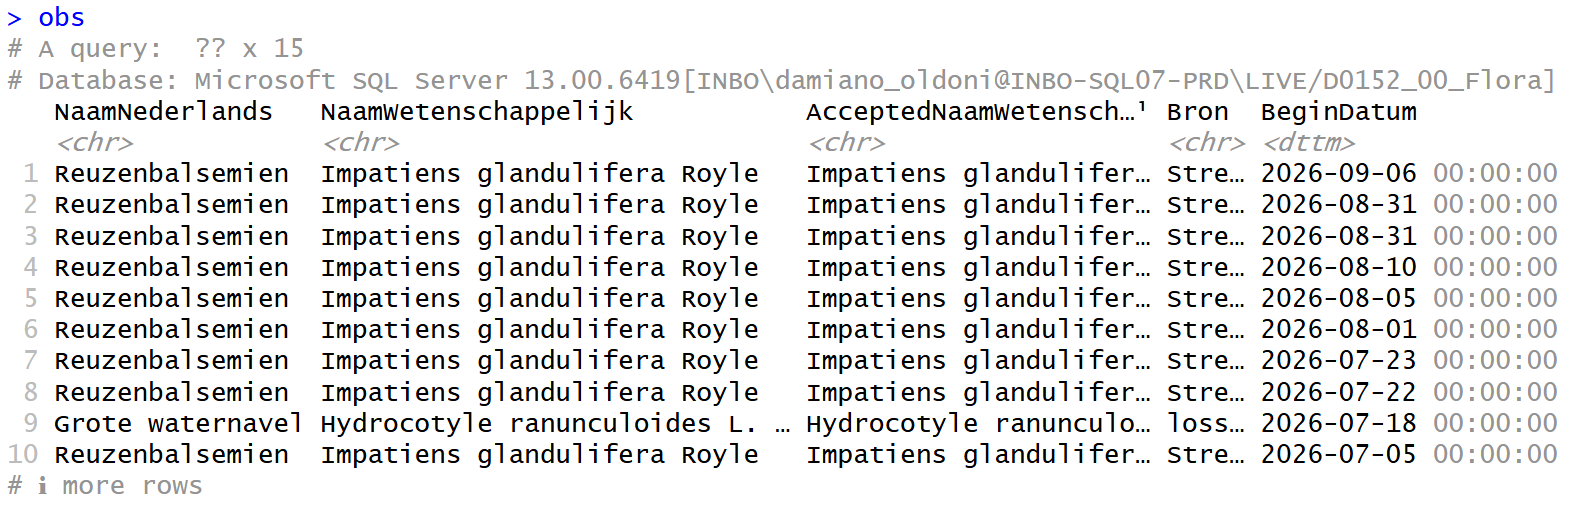
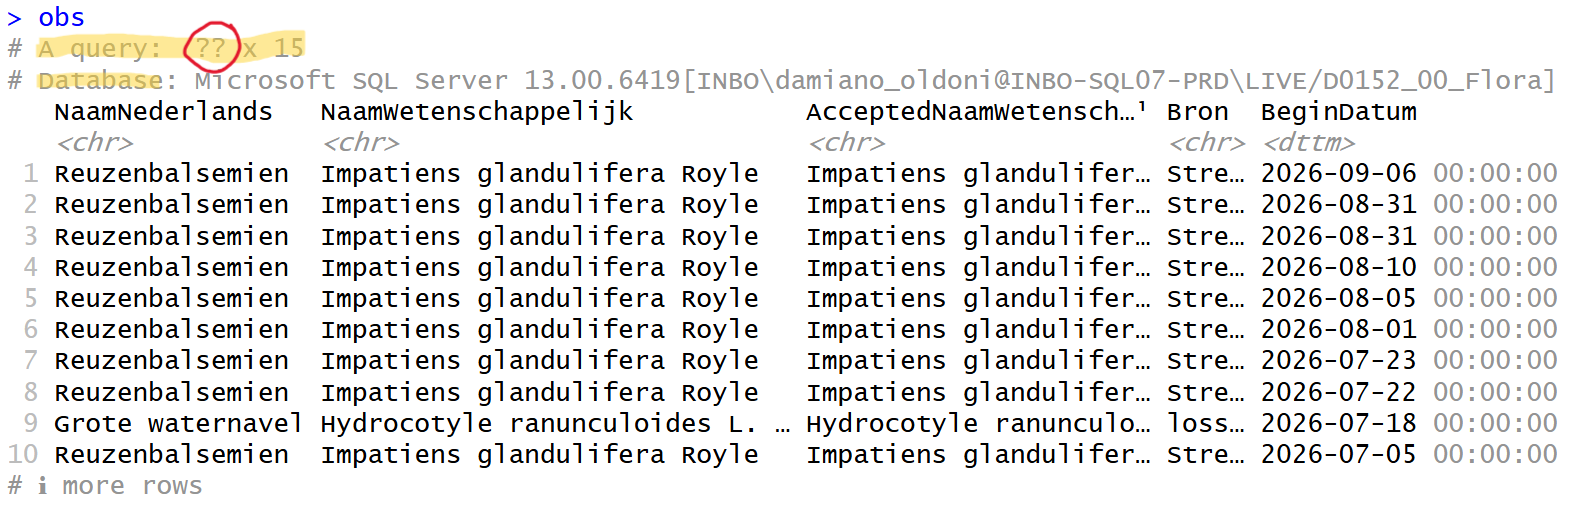
Finalize slides 20260929

Changed region(s): [[0.0, 0.0297, 0.2185, 0.1782]]

diff --git a/docs/sessions/20260929_inbo_databases.html b/docs/sessions/20260929_inbo_databases.html
@@ -60,7 +60,7 @@ class: left, top
 
 ## Introduction
 
-We will explore the functionalities provided by the "made in INBO" package [inbodb](https://inbo.github.io/inbodb/index.html) and then we will play with SQL and tidyverse.
+We will explore the built-in functionalities provided by the "made in INBO" package [inbodb](https://inbo.github.io/inbodb/index.html) and then we will play with SQL and tidyverse.
 
 
 .center[![:scale 80%]({{ site.baseurl}}/assets/images/20260929/20260929_inbodb.png)]
@@ -71,7 +71,7 @@ class: left, top
 ## `inbodb` package
 
 1. Connect to any INBO database
-2. Run specific queries for two INBO databases:
+2. Run specific queries for four INBO databases:
   - [Florabank](https://www.vlaanderen.be/inbo/datasets/florabank/): see [functions](https://inbo.github.io/inbodb/reference/index.html#functions-to-query-florabank)
   - [INBOVEG](https://www.vlaanderen.be/inbo/datasets/inboveg/): see article ["How to retrieve data from the INBOVEG database"](https://inbo.github.io/inbodb/articles/get_data_inboveg.html) and [functions](https://inbo.github.io/inbodb/reference/index.html#functions-to-query-inboveg)
   - [meetnetten.be](https://www.vlaanderen.be/inbo/datasets/meetnettenbe/): see article [How to retrieve data from the Meetnetten database](https://inbo.github.io/inbodb/articles/get_data_meetnetten.html) and [functions](https://inbo.github.io/inbodb/reference/index.html#functions-to-query-the-meetnetten-database)
@@ -86,12 +86,14 @@ class: left, Topic
 
 ## inbodb vs DBI
 
-In the last coding club (Aug 27) we spoke about "SQL in R" and we used the [DBI](https://dbi.r-dbi.org/) package to connect to a database and run SQL queries. The `inbodb` package is built on top of DBI and provides a more user-friendly interface to access INBO databases. So, what you could have learned in the last coding club, is still useful. But, no worries if you missed it, we will provide you some material to get started where needed.
+In the [last coding club](https://coding-club.inbo.be/sessions/20260827_sql_in_r.html#1) (Aug 27) we spoke about "SQL in R" and we used the [DBI](https://dbi.r-dbi.org/) package to connect to a database and run SQL queries. The `inbodb` package is built on top of DBI and provides a more user-friendly interface to access INBO databases. So, what you could have learned in the last coding club, is still useful. But, no worries if you missed it, we will provide you some material to get started where needed.
+
+.center[![:scale 80%]({{ site.baseurl}}/assets/images/20260929/20260929_dbi.png)]
 
 ---
 class: left, top
 
-No cheatsheets today, but we have several material to start with:
+No cheatsheets today, but we have several sources to start with:
 - a well-written [INBO tutorial](https://inbo.github.io/tutorials/tutorials/r_database_access/) is available about access to INBO databases
 - the [inbodb package website](https://inbo.github.io/inbodb/index.html), with its articles and function documentation, does the rest
 
@@ -136,16 +138,16 @@ No data files to download today: we will get the data from the databases :-)
 R scripts:
 - [20260929_challenges.R](https://github.com/inbo/coding-club/blob/master/src/20260929/20260929_challenges.R): R script to start from
 
-Download it automatically via `inborutils::setup_codingclub_session()` or manually from the link provided nad place it in `src/20260929`.
+Download it automatically via `inborutils::setup_codingclub_session()` or manually and place it in `src/20260929`.
 
 ---
 class: left, top
 
 ## Challenge 0
 
-1. People following remotely not connectected to the VO network: log in to the INBO VPN. Instructions available on the specific [IT INBO tutorial](https://ict-intranet.inbo.be/tutorials/vpn/index.html).
+1. People out of the VO network: log in to the INBO VPN. Instructions available on the specific [IT INBO tutorial](https://ict-intranet.inbo.be/tutorials/vpn/index.html).
 2. If not done, install `inbodb` via `pak::pak("inbo/inbodb")` or `remotes::install_github("inbo/inbodb")`.
-3. Load `inbodb` by running `library(inbodb)`. Load also `dplyr`, `DBI` and `glue` packages with `library()` as well. Code provided in `20260929_challenges.R` script.
+3. Load `inbodb` by running `library(inbodb)`. Load also `dplyr`, `DBI` and `glue` packages with `library()` as well. Code already provided in `20260929_challenges.R` script.
 4. Open connections to some databases to test (be patient, it could take a while):
 ```
 inboveg <- connect_inbo_dbase("D0010_00_Cydonia")
@@ -153,7 +155,7 @@ florabank <- connect_inbo_dbase("D0152_00_Flora")
 taxonlijsten <- connect_inbo_dbase("D0156_00_Taxonlijsten")
 vis <- connect_inbo_dbase("W0001_10_Vis")
 ```
-5. If it worked, you are ready to start the challenges.
+5. If it worked, you are ready to fly into the challenges 🚀
 
 ---
 background-image: url({{ site.baseurl}}/assets/images/background_challenge_1.png)
@@ -163,11 +165,11 @@ class: left, top
 
 1. Find the R connection pane of RStudio and find all tables under `dbo`* of Florabank database.
 
-2. Open a view of table `Taxon` of `florabank` (`D0152_00_Flora`), table `ivRecording` of INBOVEG (`D0010_00_Cydonia`) and table `Taxonlijst` of taxonlijsten (`D0156_00_Taxonlijsten`). Tips: check [RStudio connection pane documentation](https://docs.posit.co/ide/user/ide/guide/data/data-connections.html#connections-pane); tables are under the (default) `dbo` _schema_.
+2. Open a view of table `Taxon` of `florabank` (`D0152_00_Flora`), table `ivRecording` of INBOVEG (`D0010_00_Cydonia`) and table `TaxonlijstItem` of taxonlijsten (`D0156_00_Taxonlijsten`). Tips: check [RStudio connection pane documentation](https://docs.posit.co/ide/user/ide/guide/data/data-connections.html#connections-pane); tables are under the (default) `dbo` _schema_.
 
 3. Still using the RStudio connection pane, find the type of the columns of (one of the) tables in 1, e.g. *char*acter, *int*eger.
 
-4. What type does `bit` stand for? Tip: check e.g. the values contained in column `??` of table `??` opened in 1
+4. What type does `bit` stand for? Tip: check e.g. the values contained in columns `Addendum` and `Inactief` of table `TaxonlijstItem` of taxonlijsten database opened in 2.
 
 5. How to get the names of the fields of the tables in 2 directly in R? Tip: use `dBListFields()` function from the DBI package. Check examples in the [DBI homepage](https://dbi.r-dbi.org/#example).
 
@@ -184,14 +186,17 @@ The DBI function `dbListFields()` worked well. So, why not trying the DBI functi
 dbListTables(florabank)
 ```
 
-789 tables??? And all that strange names? Well, that's because the `florabank` database is a SQL Server database and the DBI function `dbListTables()` is not able to filter on the default schema `dbo`. So, you get all tables in all schemas and much, much more.
+
+What?!? 789 tables, and all that strange names?!? 😐
+
+Well, that's because the `florabank` database is a SQL Server database and the DBI function `dbListTables()` is not able to filter on the default schema `dbo`. So, you get all tables in all schemas and much, much more.
 
 ---
 class: left, top
 
 # Intermezzo 1 - database schemas
 
-But wait a minute: did I say `schema`?!? what's a *schema*? And why do we have multiple schemas in a database?
+But wait a minute: what is a **schema**? And why do we have multiple schemas in a database?
 
 A schema is a way to **logically group** database objects like tables within a database. It helps organize and manage the database structure, especially in larger databases with many objects. In SQL Server, the **default** schema is **`dbo`**, but other schemas can be created for different purposes or users (check e.g. the INBOVEG database `D0010_00_Cydonia`). And there are also **system schemas**, like **`sys`**, which contain system tables that are used by SQL Server for internal management and operations.
 
@@ -230,7 +235,7 @@ What else can you find in a schema? Well, besides tables, there are also **views
 It looks and acts like a table (you can query it, filter it, join it), but it doesn't store any data of its own. It's just a stored instruction: _"go fetch this specific slice/combination of the real tables, and show it to me as if it were one table."_
 
 How to recognize them?
-- In RStudio, you cannot open a view of a "view" 😄 No "table" symbol 𝄜 next to its name in connection pane
+- In RStudio, you cannot open a view of a "view" 😄 There is no "table" symbol 𝄜 next to its name in the connection pane
 - Their names typically start with `vw`. Example: the `inbo` schema of INBOVEG database `D0010_00_Cydonia` has no tables, only views. Try it yourself using the connection pane.
 
 .center[![:scale 30%]({{ site.baseurl}}/assets/images/20260929/20260929_views.png)]
@@ -247,11 +252,11 @@ Use inbodb functions to:
 
 2. Get recordings collected during survey `ABS-LIM2011` in INBOVEG database.
 
-3. Get the most recent taxon lists with important species at provincial level. Tip: search for taxon lists containing the words `"provinciaal belangrijke soorten"`. See [taxon lists](https://inbo.github.io/inbodb/articles/get_data_taxonlijsten.html#taxonlists-overview) overview documentation for an example. Tip valid for the remaining exercises as well.
+3. Get the most recent taxon lists with important species at provincial level. Tip: search for taxon lists containing the words `"provinciaal belangrijke soorten"`. See [taxon lists](https://inbo.github.io/inbodb/articles/get_data_taxonlijsten.html#taxonlists-overview) overview documentation for an example. Link is a valid tip for the remaining exercises as well.
 
-4. Which features (kenmerken) are associated with this kind of taxon lists?
+4. Which **features** (kenmerken) are associated with this kind of taxon lists?
 
-5. Get the taxa from the latest version of the taxon list `Provinciaal belangrijke soorten - Limburg`.
+5. Get the **items**, i.e. taxa,  from the latest version of the taxon list `Provinciaal belangrijke soorten - Limburg`.
 
 6. Get the habitat typical taxa from the latest version of the taxon list `Provinciaal belangrijke soorten - Limburg`.
 
@@ -270,7 +275,7 @@ obs <- inbodb::get_florabank_observations(
 View(obs)
 ```
 
-.center[![:scale 60%]({{ site.baseurl}}/assets/images/20260929/20260929_view_lazy.png)]
+.center[![:scale 80%]({{ site.baseurl}}/assets/images/20260929/20260929_view_lazy.png)]
 
 ---
 class: left, top
@@ -295,14 +300,14 @@ class(obs)
 [5] "tbl"
 ```
 
-All you have is a table (`tbl`), but most of all, it's a **lazy table**.
+All you have is a table (`tbl`), but most of all, it's a **LAZY** table (`tbl_lazy`).
 
 ---
 class: left, top
 
 # Intermezzo 2: R is lazy
 
-.center[![:scale 60%]({{ site.baseurl}}/assets/images/20260929/20260929_print_lazy.png)]
+.center[![:scale 100%]({{ site.baseurl}}/assets/images/20260929/20260929_print_lazy.png)]
 
 `obs` is an SQL query, no data are really loaded on your laptop.
 It is like a **reference** to the result of the query but the full result of the query is not brought into memory.
@@ -354,8 +359,7 @@ multiply_by_2(number) # no value given to argument b
 
 **IMPORTANT**: lazy evaluation is a very powerful feature of R. Great power, great responsability. In other words, always be sure that all arguments are used in the function body, unless you have a very good reasons to not do it.
 
-<small>
-* More about lazy evaluation? Give a look at [this tutorial](https://www.r-bloggers.com/2018/07/about-lazy-evaluation/)... or spend a coffeebreak with Thierry ;-)
+<small> * More about lazy evaluation? Give a look at [this tutorial](https://www.r-bloggers.com/2018/07/about-lazy-evaluation/)... or spend a coffeebreak with Thierry ;-)
 </small>
 
 ---
@@ -366,7 +370,7 @@ class: left, top
 
 Not everything is already wrapped in a function. So, how to get your data?
 
-Do you know SQL? Excellent! Otherwise, just use dplyr syntax, which is translated into SQL behind the scenes using dbplyr, the database backend of dplyr. Just pay attention to use `tbl()` to connect to the table you are interested to and it will be used as it would be a data frame.
+Do you know SQL? Excellent! Otherwise, just use dplyr syntax, which is translated into SQL behind the scenes using [dbplyr](https://dbplyr.tidyverse.org/), the database backend of dplyr. Just pay attention to use `tbl()` to connect to the table you are interested to and it will be interpreted as it would be a data frame.
 
 Example adapted from the "Use inbodb" section of the [inbodb homepage](https://inbo.github.io/inbodb/index.html):
 
@@ -394,9 +398,12 @@ Feel free to use dplyr syntax or SQL syntax or experiment both!
 1. Get the first 10 rows of table `Taxon` of `florabank`. Warning: if you use SQL, notice that SQL Server databases do NOT support `LIMIT` clause.
 2. Get the scientific name (`NaamWetenschappelijk`) of Dutch name (`NaamNederlands`) `Slank snavelmos`.
 3. Make the query above reusable by creating a *template* so that you can provide any kind of Dutch name and get its scientific name back. Tip: the section ["Create and use query templates"](https://tutorials.inbo.be/tutorials/r_database_access/#create-and-use-query-templates) from the INBO tutorial "Read data from INBO databases (SQL Server) with R" is very helpful.
-4. Make a template out of the provided query in `20260929_challenges.R`. The function should allow the users to select any kind of fish species.
-5. Similar to 4. Make a template ouf of the provided query in `20260929_challenges.R`. Variables: fish species (field `dt.NaamNL`), year(s) (field `dd.Jaar`), project(s) (field `dp.ProjectCode`), watercourse(s) (field `dv.VHAVispuntNaam`), basin(s) (field `dv.VHAVispuntBekkenNaam`) and observations status code (field `WaarnemingStatusCode`).
+4. Make a template out of the provided query in `20260929_challenges.R`. The function should allow the users to select any kind of fish species.*
+5. Similar to 4: make a template ouf of the provided query in `20260929_challenges.R`. Variables: fish species (field `dt.NaamNL`), year(s) (field `dd.Jaar`), project(s) (field `dp.ProjectCode`), watercourse(s) (field `dv.VHAVispuntNaam`), basin(s) (field `dv.VHAVispuntBekkenNaam`) and observations status code (field `WaarnemingStatusCode`).
 6. Do not forget to disconnect to the databases when you are done with your queries.
+
+<small>* Understanding the complex query is actually out of scope! Just find out how to change it to make a template out of it.
+</small>
 
 ---
 class: left, top
@@ -405,7 +412,7 @@ class: left, top
 
 We have just learned that R is lazy. We shouldn't be such as lazy! Please, [contribute](https://inbo.github.io/inbodb/CONTRIBUTING.html) to inbodb: future-you will thank you. Together we make of inbodb a more and more useful package.
 
-Contact Hans Vancalster and Els Lommelen (via GitHub issues or email) and provide them your SQL queries, some context and what are the expected inputs and output. Have you already an R function with the query template? Great! Send that too.
+Contact Hans Vancalster and Els Lommelen (via GitHub issues or email) and provide them your SQL queries, some context and what are the expected inputs and outputs. Have you already an R function with the query template? Great! Send that too.
 
 .center[![:scale 100%]({{ site.baseurl}}/assets/images/20260929/contributing_inbodb.png)]
 
@@ -432,9 +439,17 @@ class: left, top
 
 - Comprehensive solutions and video recordings will be available soon.
 - The [inbodb](https://inbo.github.io/inbodb/index.html) R package documentation website to connect and work with INBO databases in R.
-- The [DBI](https://dbi.r-dbi.org/) R package documentation website
+- The [RStudio connection pane](https://docs.posit.co/ide/user/ide/guide/data/data-connections.html#connections-pane) documentation
+- The [DBI](https://dbi.r-dbi.org/) R package documentation website.
 - [INBO tutorial](https://tutorials.inbo.be/tutorials/r_database_access/) about database access and how to create and use query templates and more.
-- The [dbplyr](https://dbplyr.tidyverse.org/) R package documentation website
+- The [dbplyr](https://dbplyr.tidyverse.org/) R package documentation website.
+- The [watina](https://inbo.github.io/watina/index.html) R package documentation website.
+- A [blogpost](https://www.r-bloggers.com/2018/07/about-lazy-evaluation/) about lazy evaluation in R.
+- The [hackMD](https://hackmd.io/tOalKnyaTfSgAMdYKFXJww?view) of this session.
+- The tutorial to [connect to INBO network](https://ict-intranet.inbo.be/tutorials/vpn/index.html)*
+
+<small>* Only available for INBO people
+</small>
 
 ---
 class: center, middle
@@ -443,6 +458,6 @@ class: center, middle
 
 <!--  Adjust the room number and name  -->
 Topic: to be decided <br>
-Room:  HT - 01.19 - Paul Van Ostaijen  <br>
-Date: **29/10/2026** (Tuesday), van **10:00** tot **12:30
-Help needed with technical setup? You are welcome from 9:45am
+Room:  HT - 01.19 - Paul Van Ostaijen <br>
+Date: **29/10/2026** (Tuesday), van **10:00** tot **12:30** <br>
+Help needed with the technical setup? You are welcome from 9:45am
